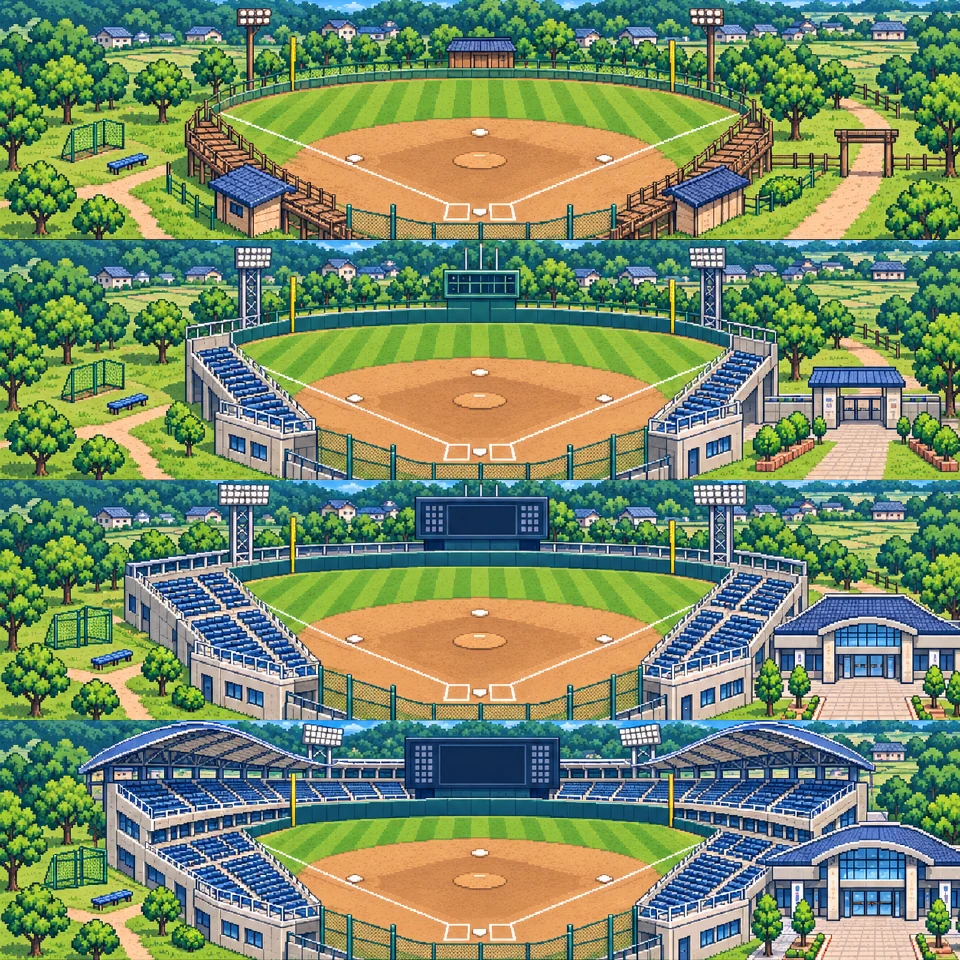
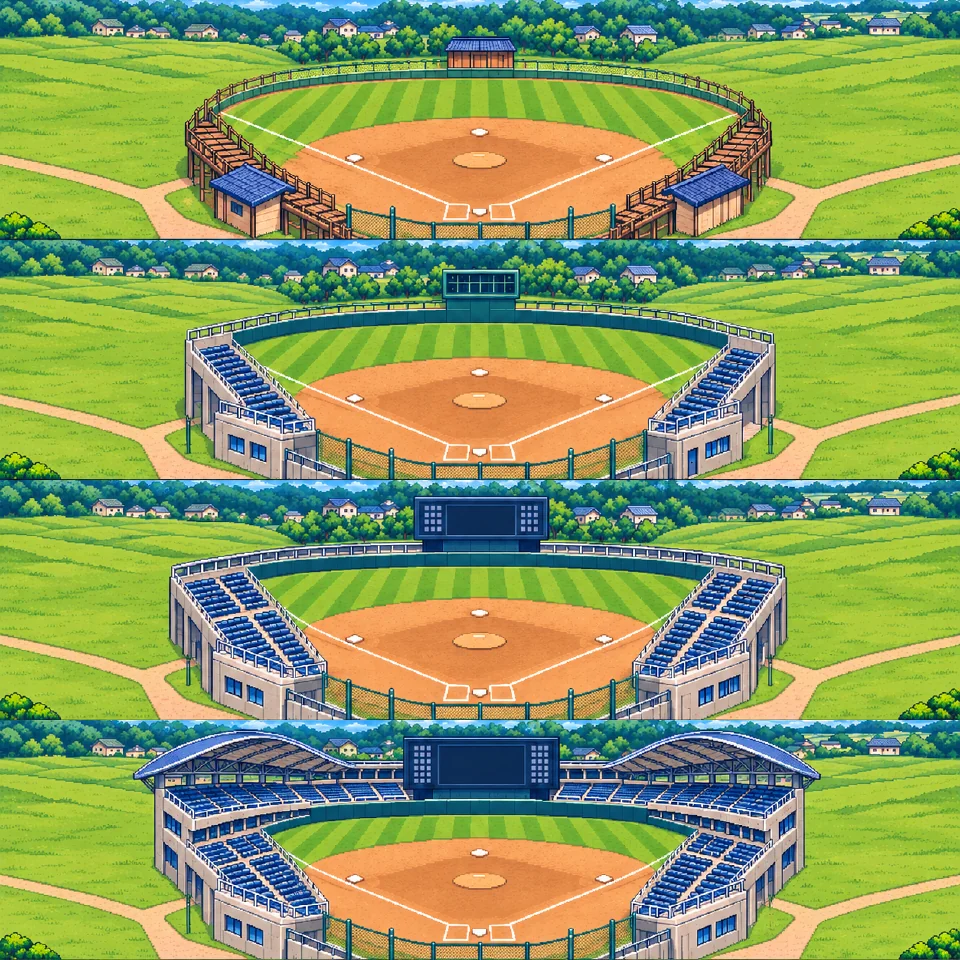
Give purchased stadium facilities their own grounds

diff --git a/pennant-legends/index.html b/pennant-legends/index.html
@@ -180,9 +180,12 @@ body.home-screen{min-height:var(--home-viewport-height,100dvh);padding-bottom:va
 .venue-map{position:relative;aspect-ratio:1.36;background:repeating-linear-gradient(0deg,#337342 0 6px,#347745 6px 12px);overflow:hidden;isolation:isolate}
 .venue-map::before,.venue-map::after{content:"";position:absolute;top:7%;bottom:5%;width:5%;background:repeating-linear-gradient(0deg,#b7a476 0 9px,#ad966c 9px 10px);box-shadow:0 0 0 3px #285937}
 .venue-map::before{left:5%}.venue-map::after{right:5%}
-.venue-ballpark{position:absolute;inset:0 12%;z-index:1;background:url(assets/ballparks.webp) var(--stadium-x) var(--stadium-y)/200% 200% no-repeat;image-rendering:pixelated;box-shadow:0 0 0 2px #264730}
+.venue-ballpark{position:absolute;inset:0 12%;z-index:1;background:url(assets/ballparks.webp?v=grounds) var(--stadium-x) var(--stadium-y)/200% 200% no-repeat;image-rendering:pixelated;box-shadow:0 0 0 2px #264730}
 .venue-layout{position:absolute;inset:0}
-.venue-facility{position:absolute;z-index:2;left:var(--ground-x);top:var(--ground-y);width:var(--ground-size);aspect-ratio:5/4;transform:translate(-50%,-100%);background:url(assets/facilities.webp) var(--facility-x) var(--facility-y)/300% 200% no-repeat;image-rendering:pixelated;pointer-events:none}
+.venue-facility{position:absolute;z-index:2;left:var(--ground-x);top:var(--ground-y);width:var(--ground-size);aspect-ratio:5/4;transform:translate(-50%,-100%);pointer-events:none}
+.venue-facility::before{content:"";position:absolute;inset:auto 6% 0;height:16%;background:#75674988;clip-path:polygon(5% 54%,17% 4%,91% 0,100% 64%,92% 100%,0 94%)}
+.venue-facility[data-facility="lights"]::before{left:32%;right:26%;height:9%}
+.venue-facility::after{content:"";position:absolute;inset:0;background:url(assets/facilities.webp?v=grounds) var(--facility-x) var(--facility-y)/300% 200% no-repeat;image-rendering:pixelated}
 .venue-preview{max-width:700px;margin:0 auto 16px}
 .venue-preview .venue-map{border:3px solid #dfb55d;border-radius:8px;margin-bottom:8px}
 .facility-grid{display:grid;grid-template-columns:repeat(auto-fit,minmax(min(100%,250px),1fr));gap:10px}
@@ -221,8 +224,7 @@ body.home-screen{min-height:var(--home-viewport-height,100dvh);padding-bottom:va
  .venue-art-frame .venue-map{width:100%;height:100%}
  .venue-map{aspect-ratio:4;container-type:size}
  .venue-map::before,.venue-map::after{content:none}
- .venue-layout{inset:0 auto 0 50%;width:max(100%,min(400cqh,103%));transform:translateX(-50%)}
- .venue-ballpark{inset:0;background-image:url(assets/ballparks-wide.webp);background-position:center var(--wide-stadium-y);background-size:100% 400%;box-shadow:none}
+ .venue-ballpark{inset:0;background-image:url(assets/ballparks-wide.webp?v=grounds);background-position:center var(--wide-stadium-y);background-size:100% 400%;box-shadow:none}
  .venue-facility{left:var(--wide-ground-x);top:var(--wide-ground-y);width:min(var(--wide-ground-size),30cqh)}
 }
 </style><main><header class="hero"><div class="muted">BASEBALL MANAGEMENT SIMULATOR</div><h1> PENNANT LEGENDS</h1><div>架空12球団・選手育成・長期球団経営</div><p id="seasonCalendar" hidden></p></header><div id="profileStrip" class="profile-strip"></div><div id="profileDialog" class="profile-dialog" hidden role="dialog" aria-modal="true" aria-labelledby="profileTitle"><div id="profilePanel" class="profile-panel"></div></div><div id="setup" hidden></div><div id="summary"></div><section class="stadium-scene venue-scene" id="stadiumScene" aria-label="球団のホーム球場"></section><div id="matchViewer" class="match-viewer" hidden><div class="match-viewer-inner"><div class="match-viewer-header"><strong>試合観戦</strong><button data-action="closeWatch">終了</button></div><div id="matchScoreboard"></div><div class="match-field"><div class="match-diamond"><span class="match-base match-base-second"></span><span class="match-base match-base-first"></span><span class="match-base match-base-third"></span><span class="match-pitcher"></span><span class="match-batter"></span></div><div class="match-field-label">LIVE MATCH VIEW</div></div><div id="matchCommentary" class="match-commentary"></div><div class="match-watch-actions"><button data-action="nextInning">次のイニング</button><button data-action="watchToEnd">試合終了まで進める</button></div></div></div><div id="skipChoice" class="skip-choice" hidden role="dialog" aria-modal="true" aria-labelledby="skipChoiceTitle"><div class="skip-choice-panel"><h2 id="skipChoiceTitle">試合をスキップしますか？</h2><p id="skipChoiceDetail">進行方法を選択してください。</p><div class="skip-choice-buttons"><button data-action="confirmSkip">スキップする</button><button data-action="confirmWatch">スキップしない</button></div><button class="skip-cancel" data-action="cancelSkip">キャンセル</button></div></div><nav class="tabs" id="tabs"></nav><section id="view"></section><p id="gameFooter" class="muted small">ブラウザ内に自動保存・無料プレイ・架空選手のみ / v2.6</p></main><script>
@@ -671,12 +673,12 @@ const FACILITY_GROUND={
  'stands-left':[9,78,14],'stands-right':[91,78,14],
  'lamp-left':[7.5,29,12],'lamp-right':[92.5,29,12]
 };
-const PANORAMA_GROUND=[
- {shed:[96.2,98,4.1],cage:[10,68,6.2],training:[90.3,90,7.2],'stands-left':[16,95,6.5],'stands-right':[82,93,6.5],'lamp-left':[25,34,4.8],'lamp-right':[74,35,4.8]},
- {shed:[96.2,98,4.1],cage:[10,68,6.2],training:[90.3,95,7.2],'stands-left':[15,95,6.5],'stands-right':[82,93,6.5],'lamp-left':[26,34,4.8],'lamp-right':[74,35,4.8]},
- {shed:[96.2,98,4.1],cage:[9,70,6.2],training:[90.3,96,7.2],'stands-left':[14,95,6.5],'stands-right':[83,94,6.5],'lamp-left':[25,32,4.8],'lamp-right':[75,33,4.8]},
- {shed:[96.2,98,4.1],cage:[8,70,6.2],training:[90.3,96,7.2],'stands-left':[13,95,6.5],'stands-right':[83,95,6.5],'lamp-left':[34,27,4.6],'lamp-right':[66,27,4.6]}
-];
+// The panoramic art leaves the same facility grounds open at every league level.
+const PANORAMA_GROUND={
+ shed:[96.2,97,7.2],cage:[10,67,11],training:[90,68,12.5],
+ 'stands-left':[13.5,95,10],'stands-right':[86,96,9],
+ 'lamp-left':[12.5,37,8.5],'lamp-right':[87.5,37,8.5]
+};
 function venueArt(preview=''){
  const g=s.clubGrowth,owned={...g.owned},stands=g.stands+(preview==='stands'?1:0);
  if(preview&&preview!=='stands')owned[preview]=true;
@@ -684,7 +686,7 @@ function venueArt(preview=''){
  const stadium='--stadium-x:'+((level%2)*100)+'%;--stadium-y:'+(Math.floor(level/2)*100)+'%;--wide-stadium-y:'+(level*100/3)+'%';
  const item=(key,slot)=>{
   const {name,art}=FACILITIES[key];
-  const [x,y,size]=FACILITY_GROUND[slot],[wideX,wideY,wideSize]=PANORAMA_GROUND[level][slot];
+  const [x,y,size]=FACILITY_GROUND[slot],[wideX,wideY,wideSize]=PANORAMA_GROUND[slot];
   const placement='--ground-x:'+x+'%;--ground-y:'+y+'%;--ground-size:'+size+'%;--wide-ground-x:'+wideX+'%;--wide-ground-y:'+wideY+'%;--wide-ground-size:'+wideSize+'%';
   return '<span class="venue-facility" data-facility="'+key+'" data-venue-slot="'+slot+'" role="img" aria-label="'+name+'" style="--facility-x:'+(art%3*50)+'%;--facility-y:'+(Math.floor(art/3)*100)+'%;'+placement+'"></span>';
  };
